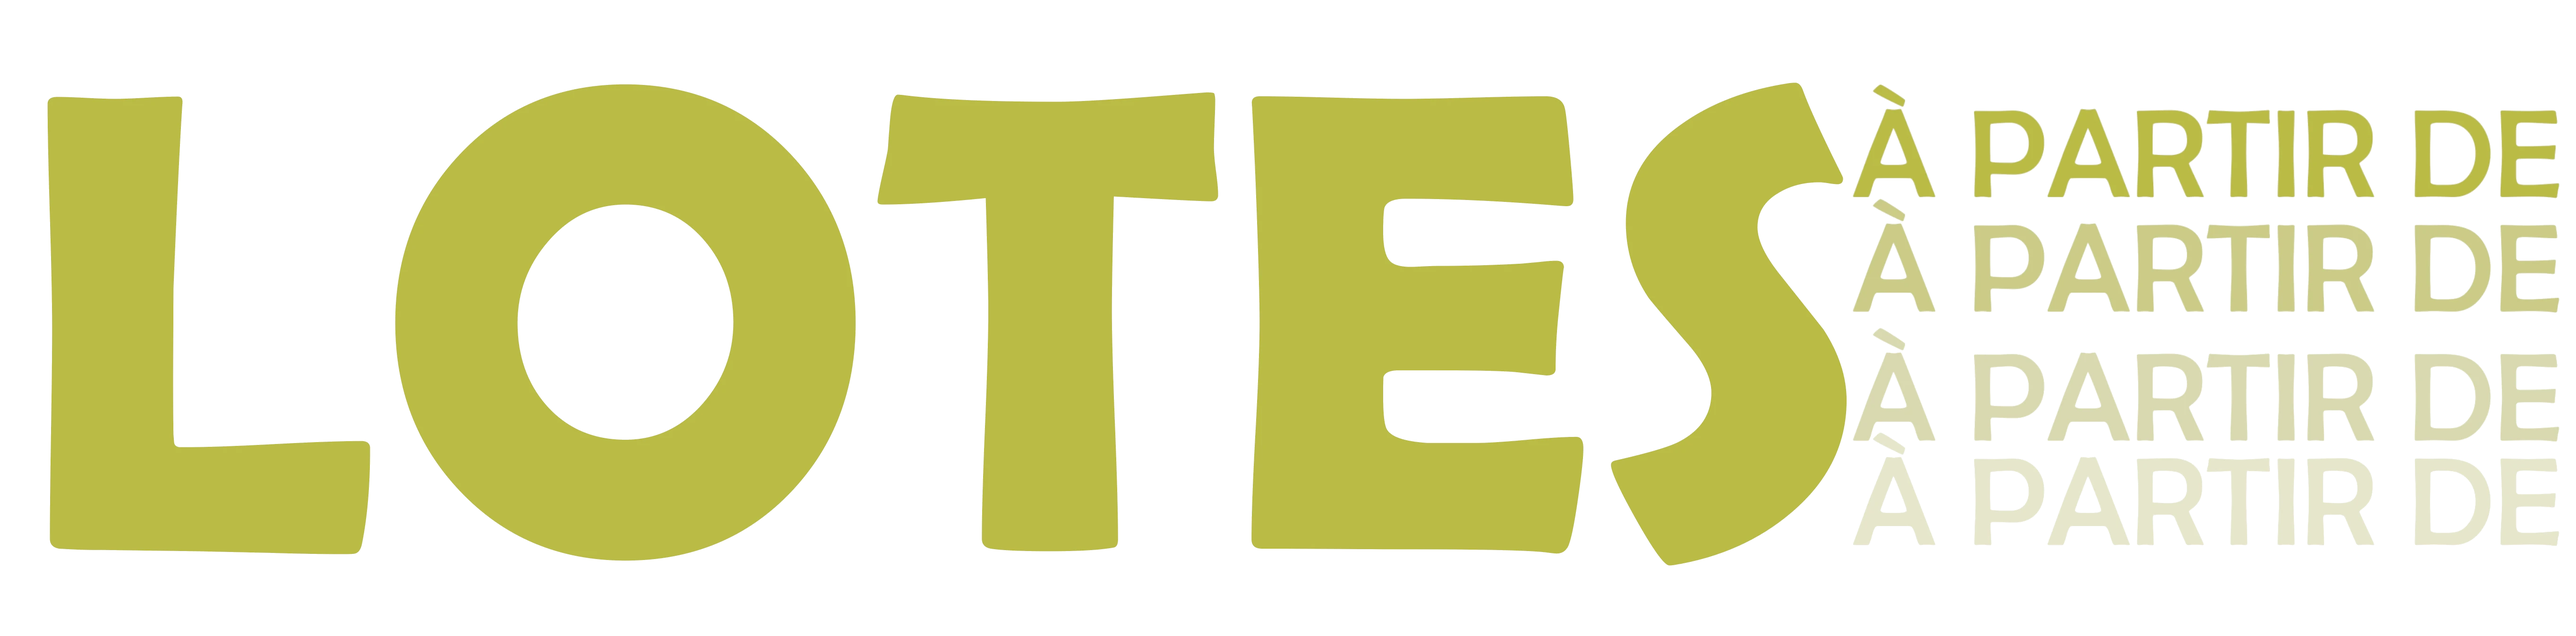
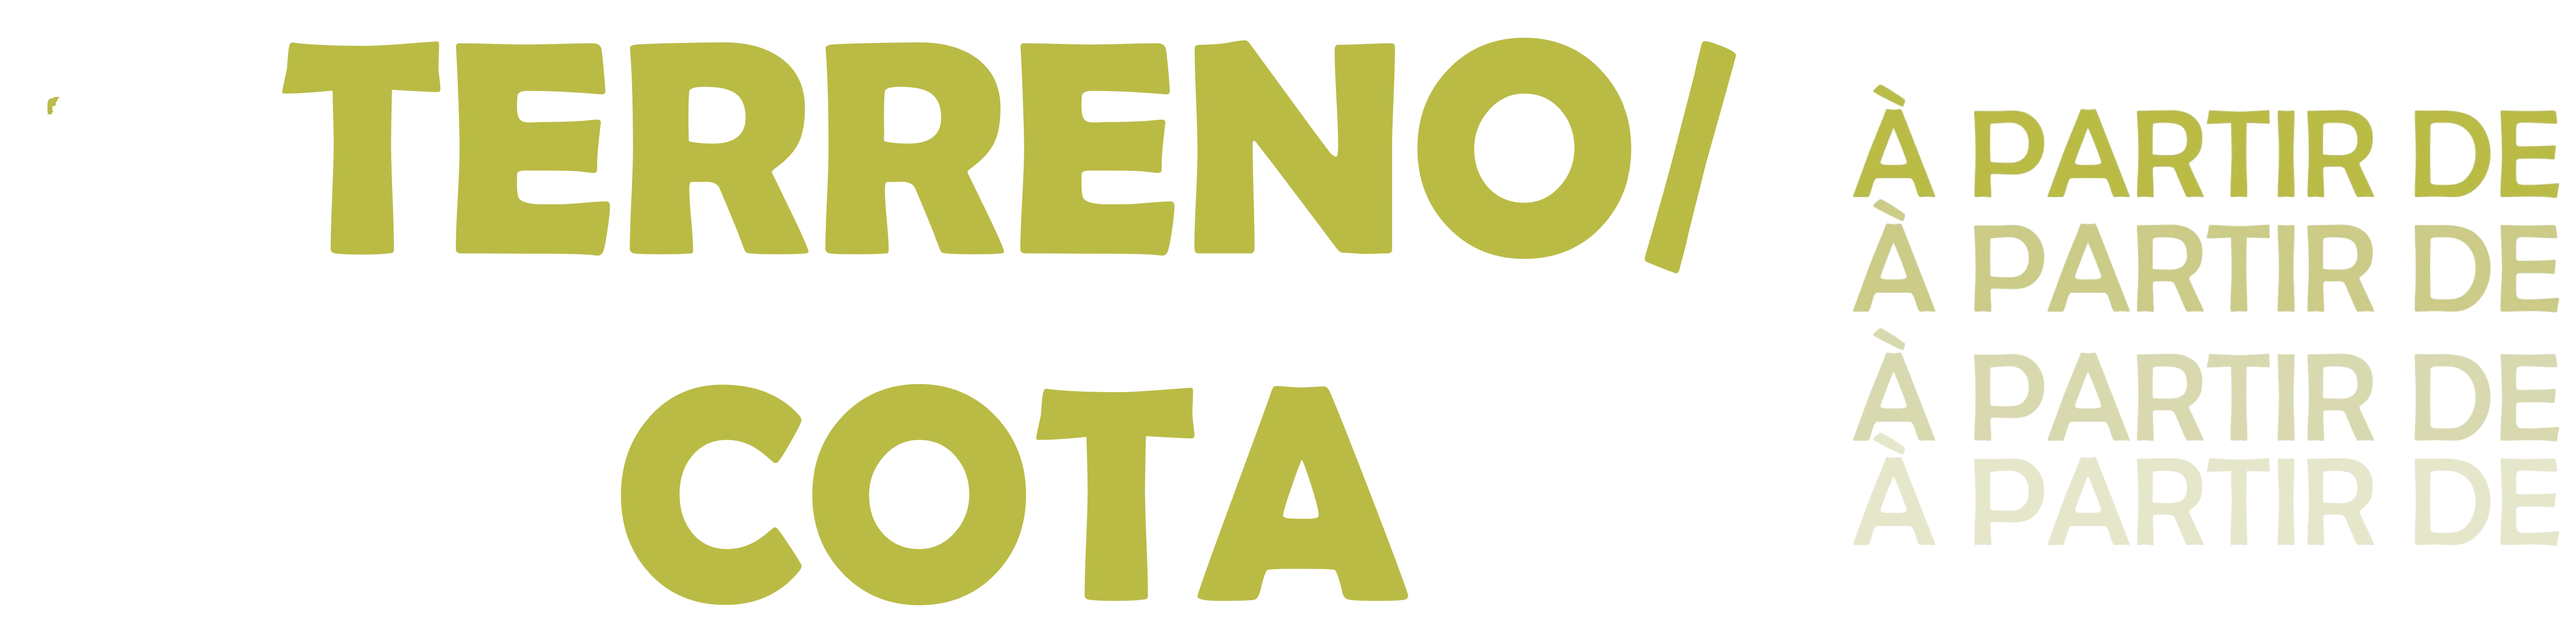
trocado de lote para terreno

diff --git a/style.css b/style.css
@@ -65,6 +65,7 @@ body {background-color: #478a09;}
 {font-size: 1.8rem; text-align: center; font-weight: bolder; color: rgb(255, 255, 255);}
 
 
+
 .divDesconto{text-align: center;}
 .textoDesconto > img{width: 60%;}
 }/* SMARTPHONE */
@@ -292,8 +293,8 @@ body {background-color: #478a09;}
 
 .chatbox-footer button a img{ width: 100%;}
 
-.whatsapp-icon { position: fixed; bottom: 250px;
-  right: 20px; width:  80px; height: 80px; cursor: pointer;}
+.whatsapp-icon { position: fixed; bottom: 100px;
+  left: 20px; width:  80px; height: 80px; cursor: pointer;}
 
 .whatsapp-icon img { width: 100%; height: 100%; border-radius: 50%;}
 

diff --git a/20230924index.php b/20230924index.php
@@ -22,8 +22,8 @@ fclose($fileHandle); ?>
                 <img src="./fotos/arterelogio.webp">
             </div>
             <div class="textologosec">
-                <p style="font-size:32px">É A SUA VEZ DE CONQUISTAR O SEU TÃO SONHADO <br>
-                    TERRENO/COTA AQUI NO PITAS PARK!</p>
+                <p>É A SUA VEZ DE CONQUISTAR O SEU TÃO SONHADO <br>
+                    LOTE AQUI NO PITAS PARK!</p>
             </div>
             <div class="imgfinallogosec">
                 <img src="./fotos/panoramicacasas.webp">
